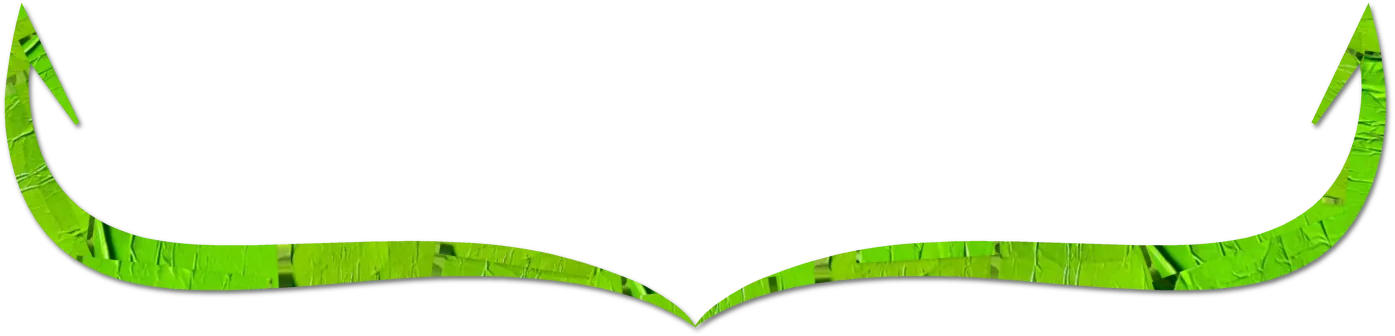
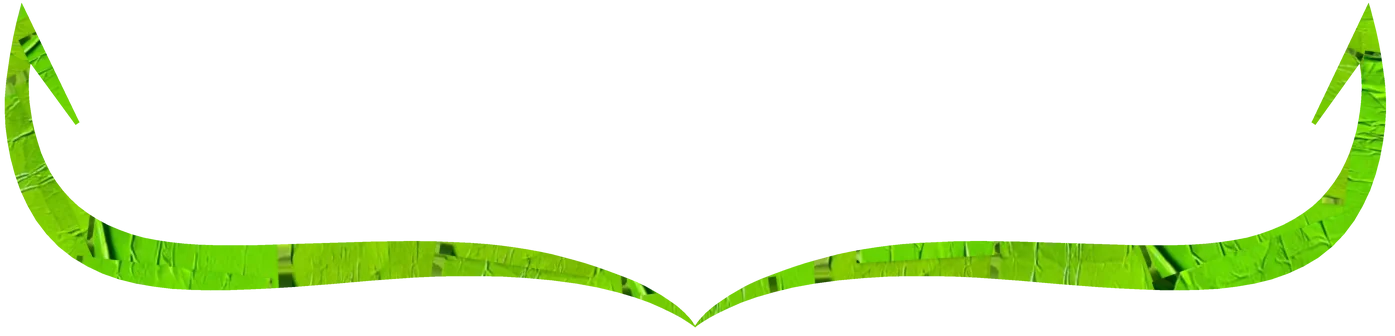
v2: финальный раунд — знак на двери, три образа, ПВХ-лента, G не ложится на контент, предзагрузка three
- K2: рождение G на месте, один канвас без двойников, компаньон не перекрывает контент, растворение до логотипа подвала
- K3: улыбка из ленты на двери, «Образы» 3 отпечатка, настоящая ПВХ-лента в hero, hero на весь экран
- K1/K4/K5: исправления по проверке (типографика, Tab, корзина, подписка, подвал)
- координатор: заголовок hero 56 px, кнопка «наклон» под знаком, preload three.js, og под v2

diff --git a/src/street.css b/src/street.css
@@ -2,13 +2,14 @@
    Типографика — только токены K1 (--t-*, .t-d1); своих кеглей здесь нет.
    ============================================================================================
    ЗНАК НА ДВЕРИ — #door-smile (для K4: анимация приклеивания)
-     Где: #sign .sign-door > #door-smile > img (door-smile.webp, 1395×336, RGBA: лента + её тень).
+     Где: figure.sign-door (position:relative) > #door-smile > img.ds-shadow (тень, отдельный слой) + img.ds-tape (лента).
+          Оба слоя 1395×336, совмещены inset:0.
      Что: улыбка с рожками из настоящей ленты этой же двери (куски со штанг букв I, N, H, R), ложится ровно под словом
           GRINCHIN — вместе с ним это полный логотип бренда. Позиция в % от кадра двери (pg-021-090, 1448×1086):
           left 2.831 % · top 36.924 % · width 96.340 % · height 30.939 % (считает img/_street.py → door_smile()).
-     Состояние: в разметке и CSS — КОНЕЧНОЕ (улыбка наклеена, видна). Анимировать: clip-path по #door-smile
-          (развёртка слева направо) + лёгкая посадка transform; transform-origin — центр улыбки (50 % 60 %).
-          ?shot=1 и reduced-motion — не трогать. Внутри #door-smile можно добавлять свои слои, img не менять.
+     Состояние: в разметке и CSS — КОНЕЧНОЕ (улыбка наклеена, тень видна). На самом #door-smile в CSS нет ни transform,
+          ни clip-path — их ставит K4 (motion.js → doorSmile(): развёртка clip-path слева направо + посадка, .ds-shadow
+          проявляется на посадке). ?shot=1 и reduced-motion — статично.
    ============================================================================================
    ЛЕНТА — СИСТЕМА
    Материал — только настоящие ленты бренда: белая малярная (скан old/p-009-058) и фирменная ПВХ (вынута с фото
@@ -92,14 +93,15 @@
 #hero .hero-copy > *{pointer-events:auto}
 
 /* кадр целиком, родная 2:3; фон кадра — чистый #000 = холст; маска гасит только кромку прямоугольника */
-#hero .hero-shot{position:absolute; bottom:0; left:40%; height:97%; aspect-ratio:1024/1536; display:block; z-index:1;
+#hero .hero-shot{position:absolute; bottom:0; left:40%; height:min(97%, 58vw); aspect-ratio:1024/1536;   /* в высоком окне кадр не заходит под G */
+  display:block; z-index:1;
   -webkit-mask-image:linear-gradient(90deg,transparent,#000 9%,#000 91%,transparent),linear-gradient(180deg,transparent,#000 4%);
   mask-image:linear-gradient(90deg,transparent,#000 9%,#000 91%,transparent),linear-gradient(180deg,transparent,#000 4%);
   -webkit-mask-composite:source-in; mask-composite:intersect}
 #hero .hero-shot img{width:100%; height:100%; object-fit:contain}
 #hero #g3d{position:absolute; z-index:2; right:0; top:5%; width:26%; height:56%}
 
-#hero-title{font:var(--t-d2); letter-spacing:-.035em; max-width:13em; text-wrap:balance; color:var(--c-white);
+#hero-title{font:900 clamp(2rem,1.1rem + 2.7vw,3.6rem)/.98 var(--font-display); letter-spacing:-.035em; max-width:12em; text-wrap:balance; color:var(--c-white);
   min-height:4.2em}                          /* 4 строки зарезервированы: подмена шрифта не двигает блок (CLS) */
 #hero .hero-strike{position:relative; white-space:nowrap}
 #hero .hero-meta{font:var(--t-mono); letter-spacing:.02em; color:var(--text-2); margin-top:clamp(18px, 2.6vh, 28px)}
@@ -187,7 +189,6 @@
 @media (pointer:coarse){                                 /* тап-зона ≥ 44 px на любом тач-экране, в т. ч. в альбомной */
   #looks .look-cap{row-gap:0}
   #looks .look-cap a,#hero .hero-meta a{display:inline-block; padding-block:14px; margin-block:-14px}
-  #looks .look-cap a + a{margin-top:2px}
 }
 
 @media (max-width:767px){
@@ -198,10 +199,11 @@
     scroll-snap-type:x mandatory; scroll-padding-inline:max(var(--gutter), env(safe-area-inset-left));
     padding-top:30px; padding-bottom:16px; margin-top:20px; scrollbar-width:none; align-items:stretch}
   #looks .looks-rail::-webkit-scrollbar{display:none}
-  #looks .look{display:flex; flex-direction:column; gap:20px; flex:0 0 min(74vw, 330px); scroll-snap-align:start; scroll-snap-stop:always}
-  #looks .look--duo{flex-basis:min(90vw, 460px)}
+  #looks .look{display:flex; flex-direction:column; justify-content:flex-end; gap:20px; flex:0 0 min(74vw, 330px); scroll-snap-align:start; scroll-snap-stop:always}
+  #looks .look--duo{flex-basis:min(82vw, 440px)}
+  #looks .look-cap{display:flex; flex-wrap:wrap; align-content:flex-start; column-gap:14px; min-height:52px}   /* одинаковая высота подписи → первая строка на одной линии */
   #looks .look[data-look] .look-print{margin-top:0}
-  #looks .look-cap{margin-top:auto}                        /* подписи на одной линии у всех отпечатков */
+  /* отпечатки прижаты к низу ряда → подписи на одной линии и сразу под кадром */
   #looks .tape--at-t{--w:118px; top:-20px}
   #looks .tape--at-tl{--w:96px; left:-24px; top:-2px}
 }
@@ -214,7 +216,7 @@
 #sign .sign-door{position:relative; margin:0}
 #sign .sign-door img{width:100%; height:auto}
 #sign #door-smile{position:absolute; left:2.831%; top:36.924%; width:96.340%; height:30.939%; pointer-events:none}
-#sign #door-smile img{width:100%; height:100%; display:block}
+#sign #door-smile img{position:absolute; inset:0; width:100%; height:100%; display:block}
 #sign .sign-steps{display:grid; grid-template-columns:repeat(3, minmax(0, 1fr)); gap:clamp(12px, 2.6vw, 32px); margin-top:clamp(24px, 3vw, 40px)}
 #sign .sign-step{margin:0; min-width:0; display:grid; grid-template-columns:minmax(0, 1fr); grid-template-rows:auto auto; gap:14px; align-content:start}
 #sign .sign-step img{width:100%; height:auto; box-shadow:0 14px 28px -16px rgb(0 0 0 / .8)}

diff --git a/src/three-g.js b/src/three-g.js
@@ -370,10 +370,17 @@ self.onmessage = async (ev) => {
     stage.style.setProperty('--g-btn', M.btn + 'px');
     M.park = { x: comp.offsetLeft + comp.offsetWidth / 2, y: comp.offsetTop + comp.offsetHeight / 2, size: M.mob ? 36 : M.btn };
     // логотип подвала (K5: #footer-logo > .fo-logo): буква G — bbox 137..347 × 47..240 в 1854×390
+    // K5 кладёт невидимую копию вектора поверх лого: .fo-logo-geom [data-l] — реальные прямоугольники букв
     const lg = D.querySelector('#footer-logo .fo-logo') || D.getElementById('footer-logo');
-    if (lg) {
+    const gl = D.querySelector('#footer-logo .fo-logo-geom [data-l="G"]');
+    if (gl && gl.getBoundingClientRect().width > 4) {
+      const r = docRect(gl, sy);
+      let top = r.t;
+      D.querySelectorAll('#footer-logo .fo-logo-geom [data-l]').forEach((el) => { const b = el.getBoundingClientRect(); if (b.height) top = Math.min(top, b.top + sy); });
+      M.logo = { gx: r.l + r.w / 2, gTop: top, gW: r.w };
+    } else if (lg) {
       const r = docRect(lg, sy), kx = r.w / LOGO.w, ky = r.h / LOGO.h;
-      M.logo = { gx: r.l + 242 * kx, gTop: r.t + 47 * ky, gW: 210 * kx, top: r.t };
+      M.logo = { gx: r.l + 242 * kx, gTop: r.t + 47 * ky, gW: 210 * kx };
     } else M.logo = null;
     // отпечатки «Образов» (контракт: figure.look > .look-print)
     let prints = Array.from(D.querySelectorAll('#looks .look-print'));
@@ -580,6 +587,12 @@ self.onmessage = async (ev) => {
     // одноразовые жесты — поверх сглаженной позы
     const V = Object.assign({}, P);
     V.op *= jm;
+    // предохранитель подвала по ВИДИМОЙ позе: до верха букв ≥ 8 px + кадр прокрутки — иначе прозрачность 0 (сглаживание не догонит)
+    if (M.logo && (P.foot > 0 || T.foot > 0)) {
+      const gap = (M.logo.gTop - sy) - (V.y + V.size * 0.34);
+      const lead = 8 + Math.min(64, Math.abs(S.vel) / 55);           // запас на кадр прокрутки (прокрутка идёт в композиторе)
+      V.op *= clamp((gap - lead) / Math.max(12, V.size * 0.3), 0, 1);
+    }
     const tb = (t - S.birthT) / 700;                                // рождение на месте: 0,6 → 1, поворот, проявление
     if (tb >= 0 && tb < 1) {
       const k = eo3(tb);
@@ -637,7 +650,6 @@ self.onmessage = async (ev) => {
     S.carrier = c;
     stage.dataset.carrier = c;
     if (hostSvg) hostSvg.classList.toggle('is-on', c === 'host');
-    comp.classList.toggle('is-vis', c === 'comp');
     if (cv) cv.classList.toggle('is-on', c === 'gl');
     S.lastPost = null; S.lastCv = ''; S.lastOp = '';
   }
@@ -654,6 +666,8 @@ self.onmessage = async (ev) => {
     if (comp.classList.contains('is-live') !== live) comp.classList.toggle('is-live', live);
     const cop = (parked ? V.op : 0).toFixed(3);
     if (comp._o !== cop) { comp._o = cop; comp.style.setProperty('--cop', cop); }
+    const cv2 = c === 'comp' && V.op > 0.01;                       // невидимый компаньон не ловит Tab и тапы
+    if (comp.classList.contains('is-vis') !== cv2) comp.classList.toggle('is-vis', cv2);
     if (c === 'comp') twinPose(compTw, V);
     if (c === 'gl' && cv && glh) {
       const glOp = V.op * clamp((t - S.glIn) / 300, 0, 1);
@@ -720,10 +734,10 @@ self.onmessage = async (ev) => {
     S.warmAsked = true;
     setTimeout(() => idle(() => glh && glh.warm(), 2000), Math.max(0, S.birthT + 900 - now()));
   }
-  function onBuilt() { S.built = true; maybeWarm(); }
+  function onBuilt() { S.built = true; S.tBuilt = now(); maybeWarm(); }
   function onGLReady() {
     if (S.mode !== 'gl') return;
-    S.glReady = true; S.glIn = S.started && !SHOT ? now() : -1e9; S.lastPost = null; S.res = [0, 0]; S.carrier = '';
+    S.glReady = true; S.tReady = now(); S.glIn = S.started && !SHOT ? now() : -1e9; S.lastPost = null; S.res = [0, 0]; S.carrier = '';
     stage.dataset.mode = 'gl'; GV.g.mode = 'gl'; GV.g.engine = glh && glh.kind;
     if (host) host.classList.add('is-gl');
     buildGyro(); wake();
@@ -739,6 +753,7 @@ self.onmessage = async (ev) => {
     S.carrier = ''; wake();
   }
   function startGL() {
+    S.tStart = now();
     const o = engineOpts(), p0 = initPose();
     makeCanvas();
     const w0 = Math.round(M.Wc * M.dpr), h0 = Math.round(w0 / ASPECT);
@@ -836,7 +851,7 @@ self.onmessage = async (ev) => {
       }).observe(D.body, { childList: true, subtree: true });
     }
     const ld = R.getAttribute('data-loader');
-    if (SHOT || ld === 'off' || ld === 'done') begin();
+    if (SHOT || ld === 'off' || ld === 'done' || R.getAttribute('data-ready') === '1') begin();   // ready уже был
     setTimeout(begin, 6000);                 // лоадер не прислал ready — не ждём вечно
   }
 

diff --git a/src/index.html b/src/index.html
@@ -21,6 +21,9 @@ document.documentElement.classList.add("js");})();
 <noscript><link rel="stylesheet" href="https://fonts.googleapis.com/css2?family=Unbounded:wght@700;900&family=Inter:wght@400;600&family=Martian+Mono:wght@400;700&display=swap"></noscript>
 <!-- GSAP грузится в конце body (перед motion.js): не держит разбор страницы; preload — чтобы скачивание началось сразу -->
 <link rel="preload" as="script" href="https://cdnjs.cloudflare.com/ajax/libs/gsap/3.15.0/gsap.min.js">
+<!-- three.js для 3D-G (импорт в воркере) — качаем заранее, чтобы знак был готов к рождению и на холодном кэше -->
+<link rel="preload" as="fetch" crossorigin href="https://cdnjs.cloudflare.com/ajax/libs/three.js/0.186.1/three.module.min.js">
+<link rel="preload" as="fetch" crossorigin href="https://cdnjs.cloudflare.com/ajax/libs/three.js/0.186.1/three.core.min.js">
 <link rel="preload" as="script" href="https://cdnjs.cloudflare.com/ajax/libs/gsap/3.15.0/ScrollTrigger.min.js">
 <!--@css:tokens.css-->
 <!--@css:base.css-->

diff --git a/src/products.js b/src/products.js
@@ -110,8 +110,7 @@ window.GV_PRODUCTS.forEach(function (p) { p.name = p.type + " " + p.word; });
    По реальным кадрам: '01 и '02 — джинсы КАРАКУЛИ, '03 — футболка и лонгслив ФОН, '04 — пакет («так приходит заказ»), без вещей.
    Карточка товара показывает «Из образа ’NN» по первому образу, где вещь есть; у кого образа нет — ссылки нет. */
 window.GV_LOOKS = [
-  { n: "01", items: ["jeans-scribble"] },
-  { n: "02", items: ["jeans-scribble"] },
-  { n: "03", items: ["tee-blank", "longsleeve-blank"] },
-  { n: "04", items: [] }
+  { n: "01", items: ["jeans-scribble"] },              // диптих pg-011-010 + pg-011-024
+  { n: "02", items: ["tee-blank", "longsleeve-blank"] }, // жаккардовая G у подола, pg-015-038
+  { n: "03", items: ["tee-blank"] }                      // бирка G в горловине, pg-015-040
 ];

diff --git a/src/g.css b/src/g.css
@@ -39,7 +39,7 @@
 @keyframes g-born{from{opacity:0;transform:scale(.6) rotate(-14deg)}to{opacity:1;transform:none}}
 
 /* гироскоп: только сенсорные, только по нажатию (iOS просит разрешение по жесту); внутри #g3d, после рождения */
-.g-gyro{position:absolute;right:4px;bottom:4px;z-index:7;display:inline-flex;align-items:center;justify-content:center;gap:8px;
+.g-gyro{position:absolute;right:4px;top:calc(100% + 8px);z-index:7;display:inline-flex;align-items:center;justify-content:center;gap:8px;
   min-height:44px;min-width:44px;padding:0 14px;border:1px solid color-mix(in srgb,var(--c-white,#fff) 28%,transparent);border-radius:999px;
   background:color-mix(in srgb,var(--c-black,#000) 70%,transparent);color:var(--c-white,#fff);
   font:400 .75rem/1 var(--font-mono,monospace);letter-spacing:.02em;pointer-events:auto;-webkit-tap-highlight-color:transparent;

diff --git a/src/sign.html b/src/sign.html
@@ -11,7 +11,8 @@
                alt="Логотип GRINCHIN — слово и улыбка с рожками — выклеен зелёной лентой на железной двери с граффити" width="1448" height="1086" loading="lazy" fetchpriority="low" decoding="async">
         </picture>
         <div id="door-smile" aria-hidden="true">
-          <img src="{{asset:img/street/door-smile.webp}}" alt="" width="1395" height="336" loading="lazy" decoding="async">
+          <img class="ds-shadow" src="{{asset:img/street/door-smile-shadow.webp}}" alt="" width="1395" height="336" loading="lazy" decoding="async">
+          <img class="ds-tape" src="{{asset:img/street/door-smile.webp}}" alt="" width="1395" height="336" loading="lazy" decoding="async">
         </div>
       </figure>
       <ol class="sign-steps">

diff --git a/src/img/_street.py b/src/img/_street.py
@@ -1,19 +1,20 @@
 #!/usr/bin/env python3
 """v2 (K3): лента и фото «улицы» из СОБСТВЕННЫХ материалов бренда. Детерминирован (фиксированные seed).
 
-Запуск из site/:  python3 src/img/_street.py  [tape|photo]   (без аргумента — всё, ≈10 с)
+Запуск из site/:  python3 src/img/_street.py  [tape|photo|smile]   (без аргумента — всё, ≈10 с)
 
 Источники — ../../assets/brand_raster (растры из PDF в нативном разрешении):
-  old/p-009-058   мятая белая малярная лента, 3443 px — ЕДИНСТВЕННЫЙ источник формы/заломов/рваных концов
-                  → tape/pin-1…5.webp (белые куски разной формы), tape/green-1…3.webp (фирменная зелёная:
-                    форма и светотень скана, цвет бренда ПОД светотенью, печать GRINCHIN гротеском ПОД заломами)
-  new/pg-011-018  модель, косуха + джинсы, на чёрном → street/hero-*.{avif,jpg} (целый кадр, ретушь зелёной точки)
-  new/pg-011-010  модель, «Каракули» + худи        → street/look-a-*
-  new/pg-011-024  модель, «Каракули», взгляд вниз  → street/look-b-*
-  new/pg-015-038  жаккардовая G у подола футболки  → street/look-c-*
-  new/pg-020-088  пакет с фирменной лентой          → street/bag-*      (образ '04 и пакет подписки у K5)
-  new/pg-021-090  дверь, GRINCHIN зелёным скотчем   → street/door-*     (БЕЗ обработки, только пережатие)
-  old/p-018-122/118/120  N: наклеили → сорвали → скан → street/n-1…3-*
+  old/p-009-058   мятая белая малярная лента, 3443 px → tape/pin-1…5.webp (белые куски разной формы, натуральные/новые отрывы)
+  new/pg-020-088  пакет: диагональная ПВХ-лента целиком → tape/pvc.webp (печать, глянец, вспышка — свои; кромки по прямым,
+                  видимый конец срезан ножом). Сам пакет — только в подписке (K5, img/end/).
+  new/pg-011-018  модель, косуха + джинсы, на чёрном → street/hero-* (целый кадр, ретушь точки, край утоплен и растушёван)
+  new/pg-011-010, pg-011-024  «Каракули»          → street/look-a-*, look-b-* (диптих ’01)
+  new/pg-015-038  жаккардовая G у подола          → street/look-c-* (’02)
+  new/pg-015-040  бирка G в горловине              → street/look-d-* (’03)
+  new/pg-021-090  дверь, GRINCHIN зелёным скотчем  → street/door-* (БЕЗ обработки, только пережатие)
+                  + street/door-smile.webp, door-smile-shadow.webp — улыбка с рожками из кусков ленты ЭТОЙ ЖЕ двери
+                    (вектор svg/logo.svg → lg-smile, подогнан по габаритам букв на фото), позиция печатается в % кадра
+  old/p-018-122/118/120  N: наклеили → сняли → скан → street/n-1…3-*
 Чужие мудборды (old/p-002…012, new/pg-018/019) и Гринч (pg-008) НЕ используются.
 """
 from __future__ import annotations
@@ -436,17 +437,18 @@ def door_smile(door):
     print(f"  доклеено кусками: {patched} px, крошек: {int(hole.sum())} px")
     alpha = canvas[..., 3] * mask
     rgb_ = ndimage.gaussian_filter(canvas[..., :3], (.45, .45, 0))           # мягкость фото двери
-    # тень, как у букв на двери: мягкая, вниз-вправо
+    # тень, как у букв на двери: мягкая, вниз-вправо. Отдельным слоем — K4 проявляет её на «посадке» (.ds-shadow)
     shadow = np.roll(np.roll(ndimage.gaussian_filter(alpha, 2.2), 3, 0), 2, 1) * .55
-    out_a = alpha + shadow * (1 - alpha)
-    out_rgb = (rgb_ * alpha[..., None]) / np.maximum(out_a, 1e-4)[..., None]
-    rgba = np.dstack([out_rgb, out_a])
-    ys, xs = np.where(out_a > .01)
+    shadow = shadow * (1 - alpha)                     # под лентой тень не нужна — слой лежит под ней
+    both = np.maximum(alpha, shadow)
+    ys, xs = np.where(both > .01)
     y0, y1, x0, x1 = ys.min() - 2, ys.max() + 3, xs.min() - 2, xs.max() + 3
-    rgba = rgba[y0:y1, x0:x1]
-    p = OUT_S / "door-smile.webp"
-    Image.fromarray((np.clip(rgba, 0, 1) * 255 + .5).astype(np.uint8), "RGBA").save(p, quality=84, method=6, alpha_quality=92)
-    report(p)
+    tape_rgba = np.dstack([rgb_, alpha])[y0:y1, x0:x1]
+    sh_rgba = np.dstack([np.zeros_like(rgb_), shadow])[y0:y1, x0:x1]
+    for name, arr, q in (("door-smile.webp", tape_rgba, 84), ("door-smile-shadow.webp", sh_rgba, 70)):
+        p = OUT_S / name
+        Image.fromarray((np.clip(arr, 0, 1) * 255 + .5).astype(np.uint8), "RGBA").save(p, quality=q, method=6, alpha_quality=90)
+        report(p)
     # позиция в % от кадра двери — для CSS (#door-smile)
     pos = dict(left=x0 / W * 100, top=y0 / H * 100, width=(x1 - x0) / W * 100, height=(y1 - y0) / H * 100)
     print("  #door-smile: " + "; ".join(f"{k_}:{v:.3f}%" for k_, v in pos.items()))
